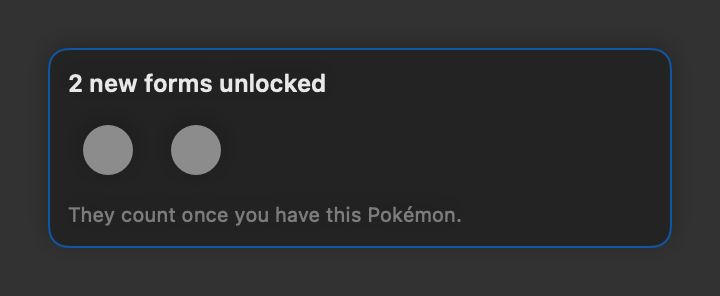
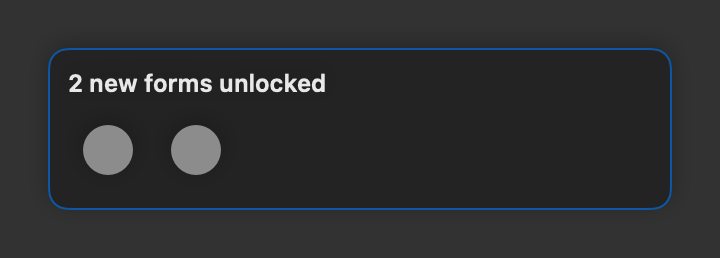
fix(forms): announce Arceus and Silvally forms only once the species is in the Pokédex
Plates and Memories won before stay silent; the first Arceus or Silvally announces them all.

diff --git a/Sources/PokeTokenBar/Core/CompanionStore.swift b/Sources/PokeTokenBar/Core/CompanionStore.swift
@@ -1818,13 +1818,11 @@ final class CompanionStore {
         return ready.count
     }
 
-    /// Forms a claim or a first catch just unlocked (Arceus's Plates), for the short message that shows their
-    /// sprites. One entry per species; a message not seen yet takes the next unlocks in.
+    /// Forms a claim, a catch or an evolution just unlocked (Arceus's Plates, Silvally's Memories), for the short
+    /// message that shows their sprites. One entry per species; a message not seen yet takes the next unlocks in.
     struct FormUnlockNews: Equatable, Sendable {
         let speciesID: Int
         let forms: [PokemonForm]
-        /// False while the species is not in the Pokédex: its forms count once it is.
-        let isOwned: Bool
     }
 
     private(set) var formUnlockNews: [FormUnlockNews] = []
@@ -1839,21 +1837,21 @@ final class CompanionStore {
         })
     }
 
-    /// Announces the forms unlocked since the snapshot. The first Arceus also brings the Plates already won.
+    /// Announces the forms unlocked since the snapshot, only for a species in the Pokédex: a Plate or Memory won
+    /// before stays silent, and the first Arceus or Silvally announces every one already won.
     private func announceFormUnlocks(since before: ItemFormSnapshot) {
         for (id, previous) in before.sorted(by: { $0.key < $1.key }) {
+            guard state.ownsSpeciesInAnyForm(id) else { continue }
             let unlocked = state.itemUnlockedForms(speciesID: id)
-            let owned = state.ownsSpeciesInAnyForm(id)
-            var new = unlocked.subtracting(previous.unlocked)
-            if owned, !previous.owned { new.formUnion(unlocked) }
+            let new = previous.owned ? unlocked.subtracting(previous.unlocked) : unlocked
             guard !new.isEmpty else { continue }
             let pending = formUnlockNews.first { $0.speciesID == id }.map { Set($0.forms) } ?? []
             let forms = new.union(pending).sorted {
                 PokemonForm.sortOrder($0, speciesID: id) < PokemonForm.sortOrder($1, speciesID: id)
             }
             formUnlockNews.removeAll { $0.speciesID == id }
-            formUnlockNews.append(FormUnlockNews(speciesID: id, forms: forms, isOwned: owned))
-            AppLog.write("forms unlocked: \(id) \(forms.map(\.rawValue)) owned=\(owned)")
+            formUnlockNews.append(FormUnlockNews(speciesID: id, forms: forms))
+            AppLog.write("forms unlocked: \(id) \(forms.map(\.rawValue))")
         }
     }
 

diff --git a/Tests/PokeTokenBarTests/PlateFormTests.swift b/Tests/PokeTokenBarTests/PlateFormTests.swift
@@ -96,27 +96,37 @@ final class PlateFormTests: XCTestCase {
         st.dex += badgeRegion(.fire)
         let s = try store(st)
         XCTAssertEqual(s.claimBadgeTiers(.volcanoBadge), 1)
-        XCTAssertEqual(s.formUnlockNews, [.init(speciesID: 493, forms: [fire], isOwned: true)])
+        XCTAssertEqual(s.formUnlockNews, [.init(speciesID: 493, forms: [fire])])
         s.dismissFormUnlockNews()
         XCTAssertEqual(s.formUnlockNews, [])
     }
 
     /// "Claim all" shows one message with every form it unlocked; a Plate already won announces nothing.
     func testClaimAllAnnouncesEveryNewFormInOneMessage() throws {
-        var st = state(plates: [.water])
+        var st = state(plates: [.water], arceus: normal)
         st.dex += badgeRegion(.fire) + badgeRegion(.ice) + badgeRegion(.water)
         st.claimedAchievements.remove(CompanionState.badgeTierKey(.cascadeBadge, generation: 1))
         st.claimedAchievements.insert(CompanionState.badgeTierKey(.cascadeBadge, generation: 2))
         let s = try store(st)
         XCTAssertGreaterThanOrEqual(s.claimAllAchievements(), 3)
-        XCTAssertEqual(s.formUnlockNews, [.init(speciesID: 493, forms: [fire, ice], isOwned: false)],
-                       "no Arceus yet; Water was already unlocked by Johto")
+        XCTAssertEqual(s.formUnlockNews, [.init(speciesID: 493, forms: [fire, ice])],
+                       "Water was already unlocked by Johto")
+    }
+
+    /// Without Arceus no form is announced: its Plates wait, silent, for the first one.
+    func testPlatesWonWithoutArceusAnnounceNothing() throws {
+        var st = state()
+        st.dex += badgeRegion(.fire)
+        let s = try store(st)
+        XCTAssertEqual(s.claimBadgeTiers(.volcanoBadge), 1)
+        XCTAssertEqual(s.formUnlockNews, [])
+        XCTAssertEqual(s.state.itemUnlockedForms(speciesID: 493), [fire], "the Plate is still won")
     }
 
     func testTheFirstArceusBringsThePlatesAlreadyWon() async throws {
         let s = try store(state(plates: [.fire, .water]))
         await s.hatch(baseID: 493)
-        XCTAssertEqual(s.formUnlockNews, [.init(speciesID: 493, forms: [fire, water], isOwned: true)])
+        XCTAssertEqual(s.formUnlockNews, [.init(speciesID: 493, forms: [fire, water])])
 
         let again = try store(state(plates: [.fire], arceus: normal))
         await again.hatch(baseID: 493)

diff --git a/Sources/PokeTokenBar/Core/Localization.swift b/Sources/PokeTokenBar/Core/Localization.swift
@@ -1102,18 +1102,6 @@ struct L {
                 "\(count) formas nuevas desbloqueadas", "\(count) nouvelles formes débloquées",
                 "\(count) novas formas desbloqueadas", "\(count) neue Formen freigeschaltet", "Открыто новых форм: \(count)")
     }
-    /// Under forms unlocked for a species not in the Pokédex yet.
-    func formUnlockWaiting(count: Int) -> String {
-        count == 1
-            ? t("이 포켓몬을 얻으면 도감에 등록돼요.", "It counts once you have this Pokémon.",
-                "このポケモンを手に入れると図鑑に登録されます。", "Contará cuando tengas este Pokémon.",
-                "Elle comptera dès que tu auras ce Pokémon.", "Conta quando você tiver este Pokémon.",
-                "Sie zählt, sobald du dieses Pokémon hast.", "Засчитается, когда у вас будет этот покемон.")
-            : t("이 포켓몬을 얻으면 도감에 등록돼요.", "They count once you have this Pokémon.",
-                "このポケモンを手に入れると図鑑に登録されます。", "Contarán cuando tengas este Pokémon.",
-                "Elles compteront dès que tu auras ce Pokémon.", "Contam quando você tiver este Pokémon.",
-                "Sie zählen, sobald du dieses Pokémon hast.", "Засчитаются, когда у вас будет этот покемон.")
-    }
     /// One line above Arceus's forms: where they come from.
     var plateFormsHint: String {
         t("타입별 배지마다 폼이 하나씩 해금돼요.", "Each type's gym badge unlocks a form.",

diff --git a/Tests/PokeTokenBarTests/SilvallyMemoryTests.swift b/Tests/PokeTokenBarTests/SilvallyMemoryTests.swift
@@ -75,14 +75,20 @@ final class SilvallyMemoryTests: XCTestCase {
         XCTAssertEqual(s.formUnlockNews, [], "a Type: Null brings no Memory")
         s.applyUsage(s.threshold)
         XCTAssertEqual(s.currentSpeciesID, 773)
-        XCTAssertEqual(s.formUnlockNews, [.init(speciesID: 773, forms: [flying, fire], isOwned: true)],
+        XCTAssertEqual(s.formUnlockNews, [.init(speciesID: 773, forms: [flying, fire])],
                        "the first Silvally takes the Memories already won")
     }
 
-    func testHatchingALegendaryAnnouncesItsMemories() async throws {
-        let s = try store(state())
+    /// A legendary hatched with Silvally in the Pokédex announces its Memories; without Silvally, nothing.
+    func testHatchingALegendaryAnnouncesItsMemoriesOnlyWithSilvally() async throws {
+        let s = try store(state(extra: [entry(773, chain: [772, 773], form: normal)]))
         await s.hatch(baseID: 146)
-        XCTAssertEqual(s.formUnlockNews, [.init(speciesID: 773, forms: [flying, fire], isOwned: false)])
+        XCTAssertEqual(s.formUnlockNews, [.init(speciesID: 773, forms: [flying, fire])])
+
+        let alone = try store(state())
+        await alone.hatch(baseID: 146)
+        XCTAssertEqual(alone.formUnlockNews, [], "no Silvally yet: the Memories wait, silent")
+        XCTAssertEqual(alone.state.silvallyMemoryTypes, [.fire, .flying])
     }
 
     /// All 17 Memories unlock the Type: Null Egg, used like a stone to hatch a Type: Null.

diff --git a/Sources/PokeTokenBar/UI/CompanionView.swift b/Sources/PokeTokenBar/UI/CompanionView.swift
@@ -2255,10 +2255,6 @@ struct FormUnlockToast: View {
                             .frame(width: 40, height: 40)
                     }
                 }
-                if !item.isOwned {
-                    Text(store.l.formUnlockWaiting(count: item.forms.count))
-                        .font(.caption).foregroundStyle(.secondary)
-                }
             }
         }
         .padding(10)
